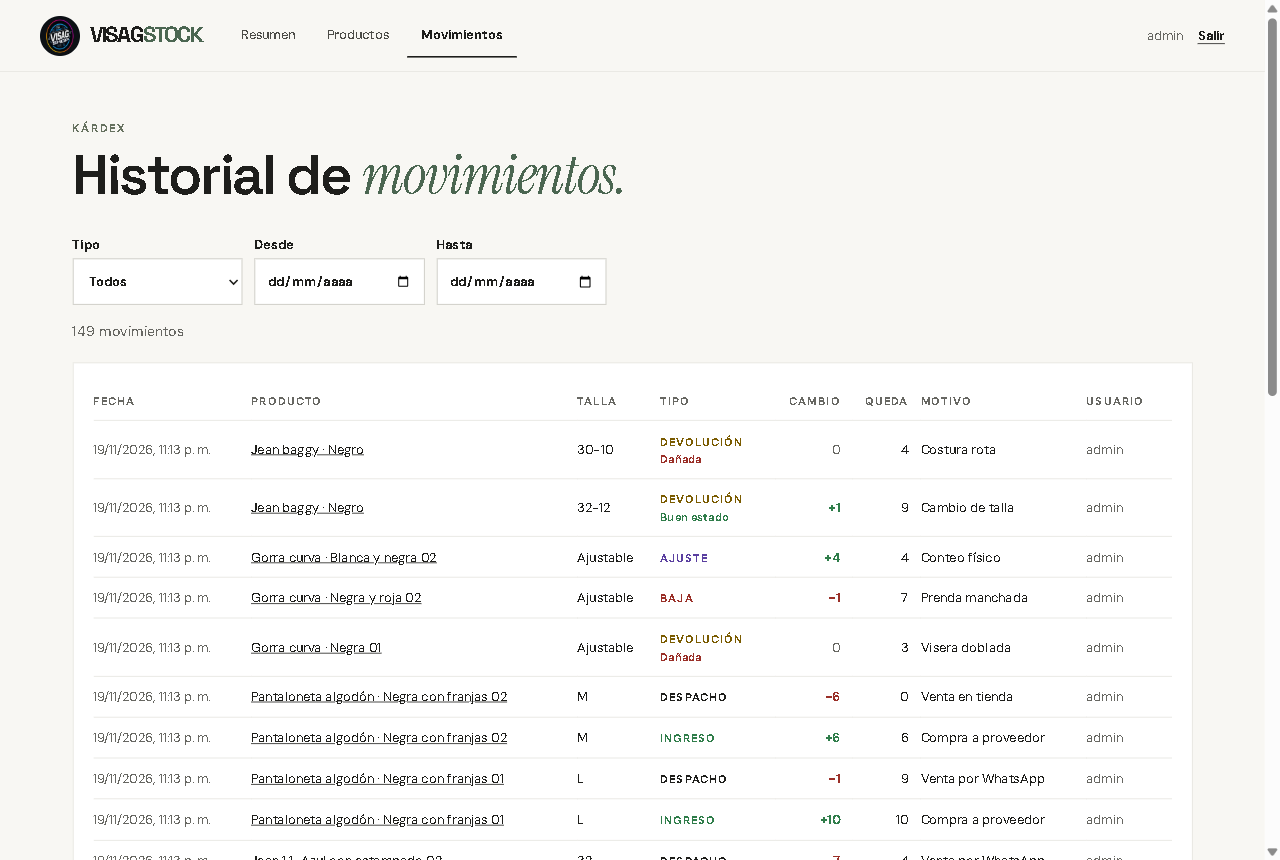
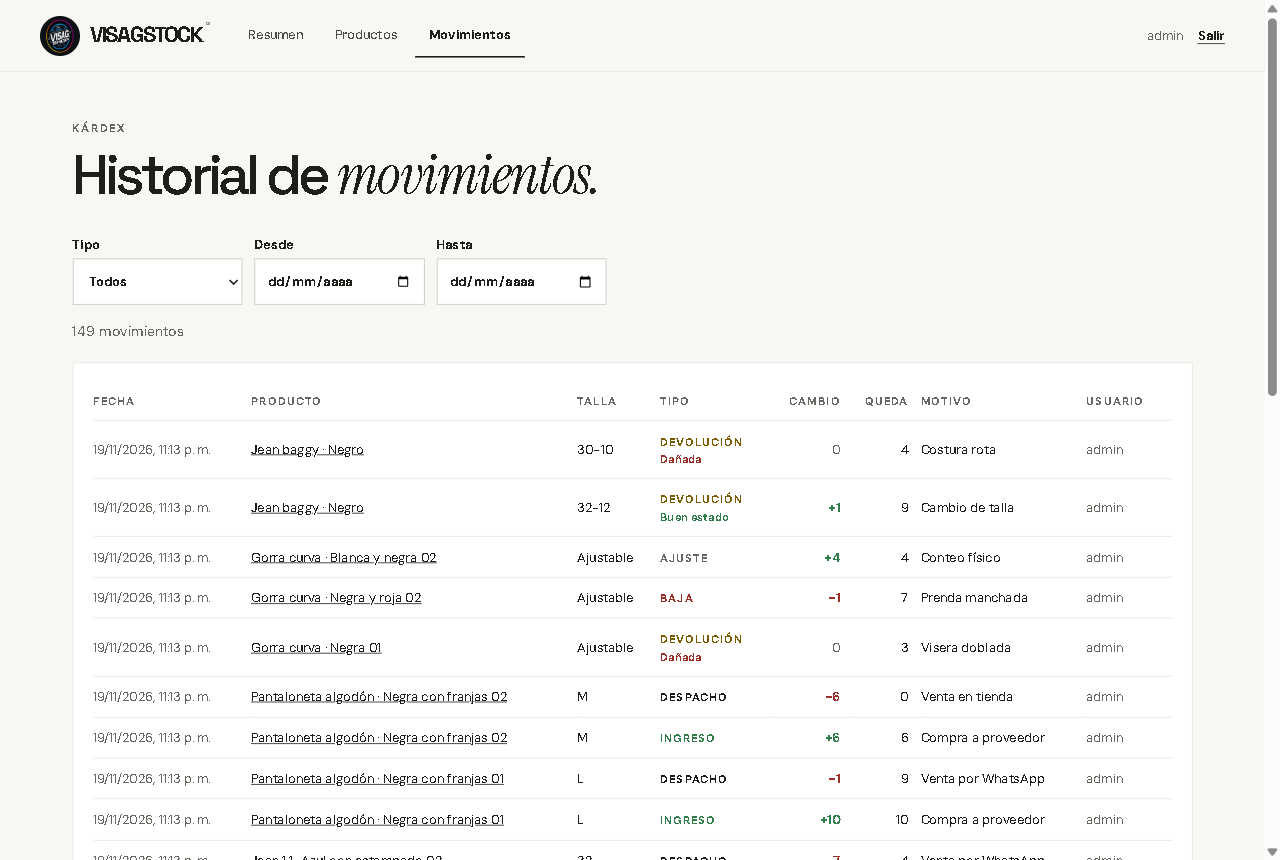
Colores neutros de VisagShop: sin verde y filtros en píldora

diff --git a/web/src/estilos.css b/web/src/estilos.css
@@ -9,8 +9,11 @@
   --borde: #c9c8c0;
   --oscuro: #252622;
   --oscuro-hover: #494a43;
-  --salvia: #4b6651;
-  --salvia-texto: #66715f;
+  --foco: #4f6249;
+  --etiqueta: #676761;
+  --chip: #585a53;
+  --chip-borde: #e5e5de;
+  --chip-activo: #292a26;
   --nav: #4c4c47;
   --rojo: #9a2f28;
   --rojo-claro: #fbeeed;
@@ -60,7 +63,8 @@ h2 {
 
 h1 {
   font-size: clamp(32px, 6vw, 56px);
-  font-weight: 600;
+  font-weight: 500;
+  letter-spacing: -0.075em;
 }
 
 h1 em,
@@ -68,7 +72,6 @@ h2 em {
   font-family: var(--serif);
   font-weight: 400;
   letter-spacing: -0.02em;
-  color: var(--salvia);
 }
 
 h2 {
@@ -78,7 +81,7 @@ h2 {
 }
 
 :focus-visible {
-  outline: 2px solid var(--salvia);
+  outline: 2px solid var(--foco);
   outline-offset: 3px;
 }
 
@@ -111,7 +114,7 @@ h2 {
   font-weight: 800;
   letter-spacing: 0.15em;
   text-transform: uppercase;
-  color: var(--salvia-texto);
+  color: var(--etiqueta);
 }
 
 .tenue {
@@ -148,8 +151,12 @@ h2 {
   letter-spacing: -0.085em;
 }
 
-.marca-texto span {
-  color: var(--salvia);
+.marca-texto small {
+  margin-left: 3px;
+  font-size: 9px;
+  vertical-align: top;
+  letter-spacing: 0;
+  color: #9c9c91;
 }
 
 .marca-logo {
@@ -342,8 +349,9 @@ h2 {
 }
 
 .insignia-disponible {
-  background: var(--verde-claro);
-  color: var(--verde);
+  background: #f8f8f3;
+  color: #66685e;
+  border-color: #d9d8d0;
 }
 
 .insignia-bajo {
@@ -478,7 +486,7 @@ a.cifra:hover {
 .semana h2 {
   margin: 0;
   font-size: 15px;
-  color: #b9c69b;
+  color: var(--white);
 }
 
 .semana-datos {
@@ -617,7 +625,7 @@ a.cifra:hover {
 }
 
 .tipo-ajuste {
-  color: #5a3fa0;
+  color: var(--muted);
 }
 
 .condicion {
@@ -647,7 +655,9 @@ a.cifra:hover {
 }
 
 .buscador input {
-  background: var(--white);
+  min-height: 53px;
+  background: #f8f8f5;
+  border-color: #e7e6df;
 }
 
 .chips {
@@ -657,23 +667,26 @@ a.cifra:hover {
 }
 
 .chip {
-  min-height: 44px;
-  padding: 0 14px;
-  border: 1px solid var(--borde);
+  min-height: 38px;
+  padding: 0 16px;
+  border: 1px solid var(--chip-borde);
+  border-radius: 100px;
   background: var(--white);
+  color: var(--chip);
   font: inherit;
-  font-weight: 700;
-  font-size: 13px;
+  font-weight: 500;
+  font-size: 12px;
   cursor: pointer;
 }
 
 .chip:hover {
-  border-color: var(--oscuro);
+  border-color: var(--chip-activo);
+  color: var(--ink);
 }
 
 .chip[aria-pressed='true'] {
-  background: var(--oscuro);
-  border-color: var(--oscuro);
+  background: var(--chip-activo);
+  border-color: var(--chip-activo);
   color: var(--white);
 }
 
@@ -864,7 +877,7 @@ a.cifra:hover {
 .formulario {
   background: var(--white);
   border: 1px solid var(--line);
-  border-top: 3px solid var(--salvia);
+  border-top: 3px solid var(--oscuro);
   padding: 20px;
   position: sticky;
   top: 84px;
@@ -913,7 +926,7 @@ fieldset {
 }
 
 .segmento:has(input:focus-visible) {
-  outline: 2px solid var(--salvia);
+  outline: 2px solid var(--foco);
   outline-offset: 3px;
 }
 

diff --git a/web/src/componentes/Marco.tsx b/web/src/componentes/Marco.tsx
@@ -18,7 +18,7 @@ export function Marco() {
         <NavLink to="/" className="marca" aria-label="VisagStock, ir al resumen">
           <img className="marca-logo" src="/logo-visagshop.png" alt="" width="40" height="40" />
           <span className="marca-texto">
-            VISAG<span>STOCK</span>
+            VISAGSTOCK<small>®</small>
           </span>
         </NavLink>
         <nav className="menu" aria-label="Principal">

diff --git a/README.md b/README.md
@@ -176,5 +176,5 @@ repositorio y se llenan `DATABASE_URL` (la misma de VisagShop en Neon), `ADMIN_U
 | Con todo en cero, el resumen decía "¡Todo en orden!". | Solo se revisaba si había alertas, no si había unidades. | Si no hay unidades, ahora invita a registrar el primer ingreso. |
 | Textos con errores: "Ajuste guardada", "quedan 1 unidad". | Se armaban las frases pegando palabras sin revisar género ni número. | Frases completas para cada tipo y una función `quedan()` que concuerda el verbo; tiene su propia prueba. |
 | Una prenda devuelta **dañada** volvía a quedar disponible para la venta. | Solo existían "entrada" y "salida": cualquier devolución se registraba como entrada y sumaba al stock. | Los tipos pasaron a nombres de kárdex (Ingreso, Despacho, Ajuste) y se añadieron **Devolución**, que pide el estado de la prenda (en buen estado suma; dañada no suma pero queda registrada), y **Baja**, para prendas dañadas en la tienda. El resumen muestra cuántas unidades se dañaron en la semana. |
-| VisagStock no se parecía a VisagShop: tenía la barra negra y un verde lima muy fuerte. | Usaba los mismos códigos de color de la tienda, pero repartidos distinto: el lima, que en VisagShop casi no aparece, era el color principal. | Revisé la tienda en línea y copié cómo usa los colores: encabezado claro con el logo redondo, fondo crema, botones casi negros y detalles en verde salvia. Ahora las dos se ven como parte de la misma marca. |
+| VisagStock no se parecía a VisagShop: tenía la barra negra y acentos verdes que la tienda no usa. | Copié los códigos de color de los archivos de la tienda, pero ahí hay estilos viejos que ya no se ven. Lo que de verdad se ve en VisagShop es neutro: crema, gris y casi negro. | Medí los colores directamente en la tienda en línea, elemento por elemento, y copié cómo usa los colores: encabezado claro con el logo redondo, fondo crema, textos y botones casi negros, filtros en forma de píldora y ningún verde: solo se usan colores para avisar (ámbar para stock bajo, rojo para agotado). Ahora las dos se ven como parte de la misma marca. |
 | En el buscador se borraba el espacio mientras se escribía. | Al actualizar la dirección, el texto se reemplazaba por la versión sin espacios del final. | Solo se reemplaza el texto si de verdad cambió la búsqueda. |
